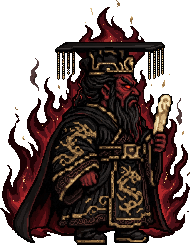
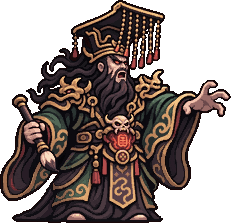
Diem Vuong theo thiet ke moi cua chu game
Claude-Session: https://claude.ai/code/session_01QQj46swudhcjrv1xLak4k8

diff --git a/game/index.html b/game/index.html
@@ -1738,7 +1738,7 @@ Object.assign(CHM,{"nguudau": {"w": 145, "h": 141, "ax": 72, "ay": 138, "src": "
 /* Hắc/Bạch Vô Thường: thiết kế ChatGPT, chuyển sang nét pixel game bằng PixelLab (24/11) */
 Object.assign(CHM,{"hacvo": {"w": 135, "h": 159, "ax": 67, "ay": 156, "src": "assets/hacvo_am.png", "proc": "walk", "anims": {"idle": {"fps": 8, "f": [[0, 0]]}, "run": {"fps": 8, "f": [[0, 0]]}, "attack": {"fps": 8, "f": [[0, 0]]}, "hit": {"fps": 8, "f": [[0, 0]]}, "death": {"fps": 8, "f": [[0, 0]]}}},"bachvo": {"w": 141, "h": 165, "ax": 70, "ay": 162, "src": "assets/bachvo_am.png", "proc": "walk", "anims": {"idle": {"fps": 8, "f": [[0, 0]]}, "run": {"fps": 8, "f": [[0, 0]]}, "attack": {"fps": 8, "f": [[0, 0]]}, "hit": {"fps": 8, "f": [[0, 0]]}, "death": {"fps": 8, "f": [[0, 0]]}}}});
 /* Diêm Vương, Phán Quan, Mạnh Bà: ảnh chủ game đưa (ChatGPT, 192x192 nền trong suốt, lưới pixel sạch) */
-Object.assign(CHM,{"diemvuong": {"w": 190, "h": 245, "ax": 95, "ay": 242, "src": "assets/diemvuong_am.png", "proc": "walk", "anims": {"idle": {"fps": 8, "f": [[0, 0]]}, "run": {"fps": 8, "f": [[0, 0]]}, "attack": {"fps": 8, "f": [[0, 0]]}, "hit": {"fps": 8, "f": [[0, 0]]}, "death": {"fps": 8, "f": [[0, 0]]}}},"phanquan": {"w": 122, "h": 176, "ax": 61, "ay": 173, "src": "assets/phanquan_am.png", "proc": "walk", "anims": {"idle": {"fps": 8, "f": [[0, 0]]}, "run": {"fps": 8, "f": [[0, 0]]}, "attack": {"fps": 8, "f": [[0, 0]]}, "hit": {"fps": 8, "f": [[0, 0]]}, "death": {"fps": 8, "f": [[0, 0]]}}},"manhba": {"w": 120, "h": 146, "ax": 60, "ay": 143, "src": "assets/manhba_am.png", "proc": "walk", "anims": {"idle": {"fps": 8, "f": [[0, 0]]}, "run": {"fps": 8, "f": [[0, 0]]}, "attack": {"fps": 8, "f": [[0, 0]]}, "hit": {"fps": 8, "f": [[0, 0]]}, "death": {"fps": 8, "f": [[0, 0]]}}}});
+Object.assign(CHM,{"diemvuong": {"w": 231, "h": 223, "ax": 115, "ay": 220, "src": "assets/diemvuong_am.png", "proc": "walk", "anims": {"idle": {"fps": 8, "f": [[0, 0]]}, "run": {"fps": 8, "f": [[0, 0]]}, "attack": {"fps": 8, "f": [[0, 0]]}, "hit": {"fps": 8, "f": [[0, 0]]}, "death": {"fps": 8, "f": [[0, 0]]}}},"phanquan": {"w": 122, "h": 176, "ax": 61, "ay": 173, "src": "assets/phanquan_am.png", "proc": "walk", "anims": {"idle": {"fps": 8, "f": [[0, 0]]}, "run": {"fps": 8, "f": [[0, 0]]}, "attack": {"fps": 8, "f": [[0, 0]]}, "hit": {"fps": 8, "f": [[0, 0]]}, "death": {"fps": 8, "f": [[0, 0]]}}},"manhba": {"w": 120, "h": 146, "ax": 60, "ay": 143, "src": "assets/manhba_am.png", "proc": "walk", "anims": {"idle": {"fps": 8, "f": [[0, 0]]}, "run": {"fps": 8, "f": [[0, 0]]}, "attack": {"fps": 8, "f": [[0, 0]]}, "hit": {"fps": 8, "f": [[0, 0]]}, "death": {"fps": 8, "f": [[0, 0]]}}}});
 // Nhân vật chính lấy từ gói Wuxia Vol.2 (cong_cu/wuxia_sheet.py): nam = Huyền Tiêu Kiếm Tông · Nam đệ tử,
 // nữ = Xích Diễm Đao Môn · Nữ đệ tử. Cả hai cầm kiếm cùng một kiểu khi đứng, đi và chém.
 // Thần Giáng Tôn Ngộ Không: sprite PixelLab (vẽ lại cỡ 144, khung xương có gậy + đuôi), đã kiểm từng frame.

diff --git a/nguon/pixellab/amgioi/gen_dv3.py b/nguon/pixellab/amgioi/gen_dv3.py
@@ -1,0 +1,24 @@
+import sys,base64,time,importlib.util
+from PIL import Image
+spec=importlib.util.spec_from_file_location('pl','/home/user/HoaThan/cong_cu/claude/pl.py');pl=importlib.util.module_from_spec(spec);spec.loader.exec_module(pl)
+M='/home/user/HoaThan/nguon/master_amgioi/';OUT='/home/user/HoaThan/nguon/pixellab/amgioi/sy6/'
+D=("Convert ONLY the central king (Yan Wang, King of the Underworld, the FINAL BOSS) into the exact pixel art style of the other bosses of this game: ultra-fine 1 px pixel grid, NO big blocky pixels, thin 1 px dark outline, rich shading 4 to 5 tones per material, fabric folds and fine texture, muted dark palette, crisp hard edges. "
+   "KEEP THE DESIGN IDENTICAL: black imperial crown board with long hanging gold bead curtains and red tassels, glowing red eyes, long black wavy hair and long black beard, open shouting mouth, green-black robe with wide sleeves and gold cloud-swirl embroidery, gold dragon-head shoulder ornaments, glowing red demon-skull chest plate, jewelled belt, black and gold front panel, one hand holding a large brush pen, the other hand reaching out, same pose. "
+   "REMOVE completely: the two grey ghost officials behind, the desk with scroll, the brazier with flames, the dark vignette background and glow. Only the king, transparent background, subtle dark red aura around him is allowed.")
+S=256;seed=7
+im=Image.open(M+'chatgpt_diemvuong_v4_goc.png').convert('RGBA');print(im.size)
+c=im.crop((380,0,1360,1024))
+f=236/c.height;w=min(S-6,round(c.width*f));f=w/c.width
+sm=c.resize((w,round(c.height*f)),Image.LANCZOS)
+cv=Image.new('RGBA',(S,S),(0,0,0,255));cv.alpha_composite(sm,((S-sm.width)//2,S-sm.height-2));cv.save(OUT+'in_dv.png')
+b64=base64.b64encode(open(OUT+'in_dv.png','rb').read()).decode()
+j=pl.req('POST','/edit-images-v2',{"method":"edit_with_text","edit_images":[{"image":{"type":"base64","base64":b64},"width":S,"height":S}],"image_size":{"width":S,"height":S},"description":D,"seed":seed,"no_background":True})
+jid=j.get('background_job_id');t0=time.time();r=j
+while jid and time.time()-t0<400:
+    time.sleep(6);r=pl.req('GET','/background-jobs/'+jid)
+    if r['status']=='completed':break
+    if r['status']=='failed':raise Exception(str(r)[:300])
+for i,x in enumerate(r['last_response'].get('images',[])):
+    x=x.get('base64') if isinstance(x,dict) else x
+    open(OUT+f'diemvuong_s{seed}_{i}.png','wb').write(base64.b64decode(x.split(',')[-1]))
+print('ok')

diff --git a/CLAUDE.md b/CLAUDE.md
@@ -427,3 +427,4 @@ Chủ game gửi ảnh sảnh iPhone ngang (~664×307, trong trình duyệt nên
 ## Phán Quan, Mạnh Bà theo thiết kế MỚI của chủ game (24/11 đêm, bản chốt)
 - Chủ game gửi một ảnh chung 2 nhân vật chibi (Mạnh Bà tóc bạc cài trâm vàng, hoa trắng, mắt đỏ, vạc to có đầu lâu, muôi nhỏ nước xanh; Phán Quan mũ quan cánh vàng, mặt đỏ, râu đen, bút phán, sổ đầu lâu). Gốc: `nguon/master_amgioi/chatgpt_mb_pq_v3_goc.png`, tách `chatgpt_{manhba,phanquan}_v3_goc.png`. PixelLab `edit-images-v2` (đầu vào phóng mượt, `nguon/pixellab/amgioi/gen_v3.py`, kết quả `sy4/`, seed 7, 20 lượt) chuyển sang nét pixel mịn giữ nguyên thiết kế. `phanquan_am.png` 125×148, `manhba_am.png` 120×146 (thấp hơn Hắc/Bạch/Mã Diện 159–165 khoảng 10%). Thay các bản trước (`sy`, `sy2`, `sy3`, vạc tự vẽ `vac_manba.py` không còn dùng). Chưa chụp kiểm độ nét 3 loại màn, chưa đăng artifact.
 - (24/11 đêm, bản chốt Phán Quan) Chủ game đưa thiết kế Phán Quan chi tiết hơn (mũ có đầu lâu và ngọc, giáp ngực mặt quỷ, khói tím; gốc `nguon/master_amgioi/chatgpt_phanquan_v4_goc.png`). PixelLab `edit-images-v2` 10 lượt (`gen_v4.py`, `sy5/`), `phanquan_am.png` 122×176. Thay bản v3 của Phán Quan (Mạnh Bà v3 giữ nguyên). Còn khoảng 2.303 lượt.
+- (24/11 đêm, bản chốt Diêm Vương) Chủ game đưa tranh cảnh Diêm Vương (mão rèm hạt vàng tua đỏ, áo xanh lục đen thêu mây vàng, vai đầu rồng, giáp ngực đầu lâu đỏ, tay cầm bút, tay kia đưa ra; gốc `nguon/master_amgioi/chatgpt_diemvuong_v4_goc.png`, có thêm 2 bóng ma quan, bàn, lư lửa). PixelLab `edit-images-v2` khung 256, 10 lượt (`gen_dv3.py`, `sy6/`) chỉ giữ vị vua. `diemvuong_am.png` 231×223. Thay bản Diêm Vương áo đen có aura lửa trước đó (`dv/`, `sy/`). `ET.diemvuong.r=58` giữ nguyên. Chưa chụp kiểm độ nét, chưa đăng artifact. Còn khoảng 2.293 lượt.
